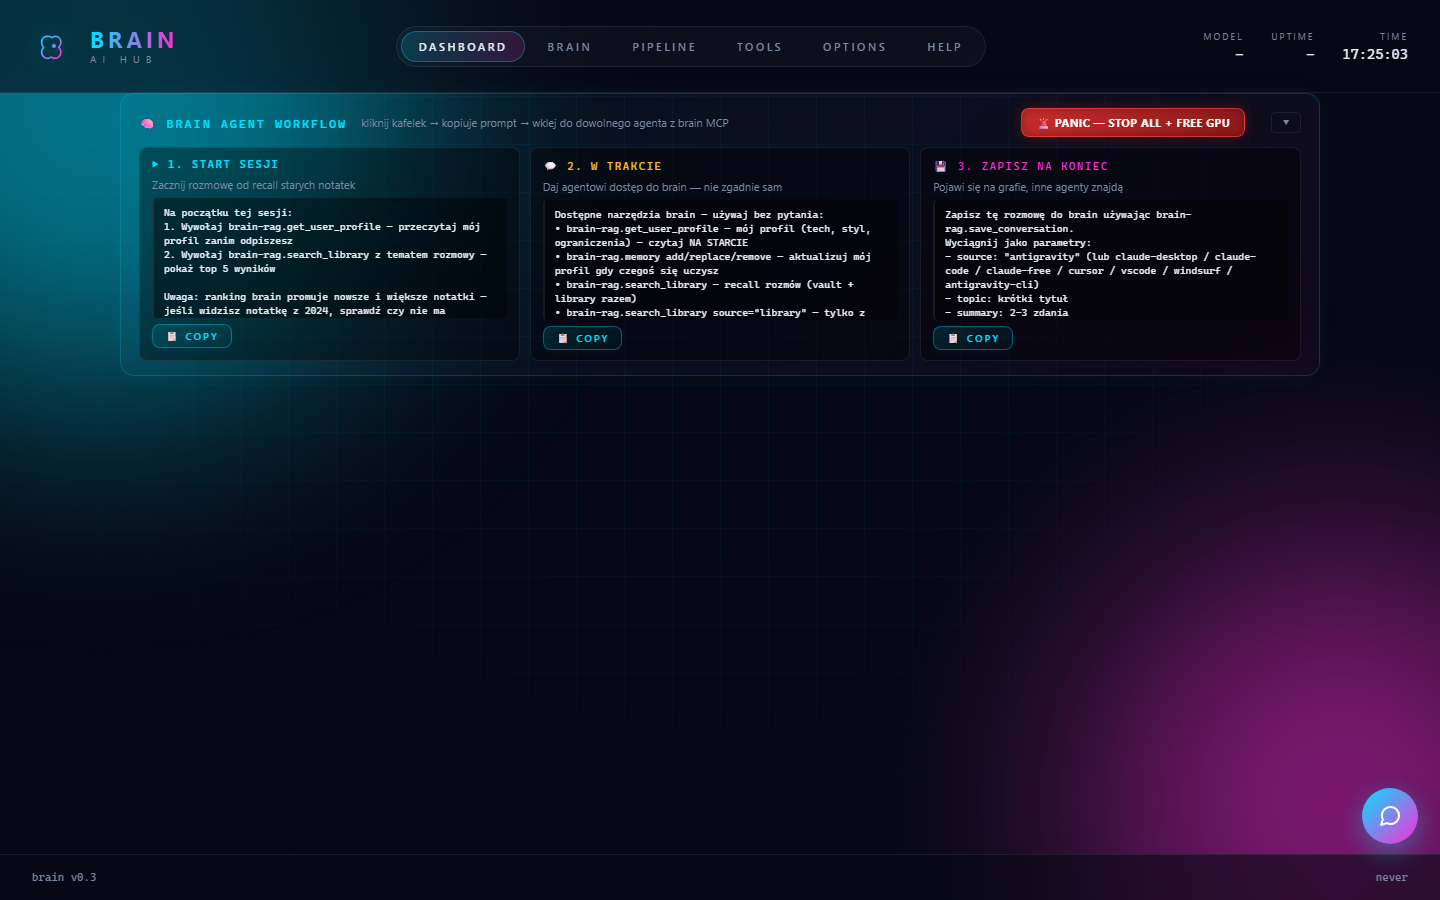
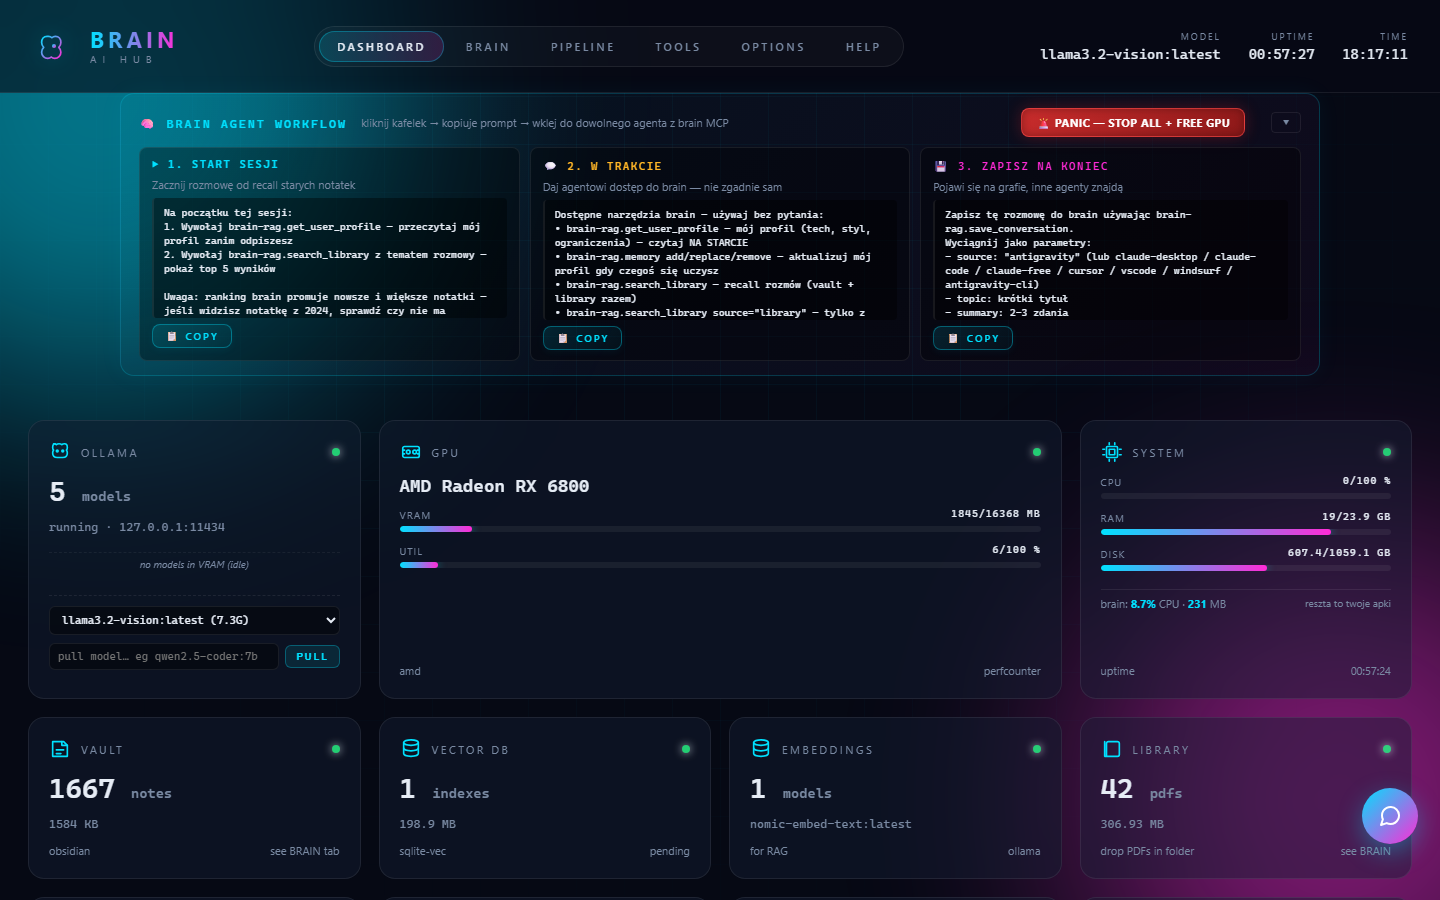
Fix dashboard screenshot: wait for status tiles to render.

diff --git a/scripts/capture_screenshots.py b/scripts/capture_screenshots.py
@@ -21,7 +21,12 @@ def capture() -> None:
         page = browser.new_page(viewport=vp)
         page.goto(BASE, wait_until="domcontentloaded", timeout=30000)
         page.wait_for_selector(".topbar", timeout=30000)
-        page.wait_for_timeout(3000)
+        # Dashboard tiles render after async refresh() (status + quality + agents)
+        page.wait_for_function(
+            """() => document.querySelectorAll('#view-dashboard #grid .tile').length >= 5""",
+            timeout=120000,
+        )
+        page.wait_for_timeout(1500)
         page.screenshot(path=str(OUT / "dashboard-home.png"), full_page=False)
 
         page.click('button.tab[data-view="brain"]')
@@ -38,6 +43,13 @@ def capture() -> None:
         page.screenshot(path=str(OUT / "dashboard-brain.png"), full_page=False)
 
         page.click('button.tab[data-view="pipeline"]')
+        page.wait_for_function(
+            """() => {
+              const el = document.querySelector('#distill-sources');
+              return el && !/loading/i.test(el.textContent || '');
+            }""",
+            timeout=60000,
+        )
         page.wait_for_timeout(1500)
         page.screenshot(path=str(OUT / "dashboard-pipeline.png"), full_page=False)
 